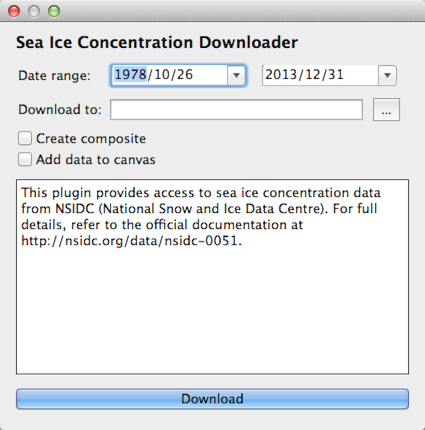
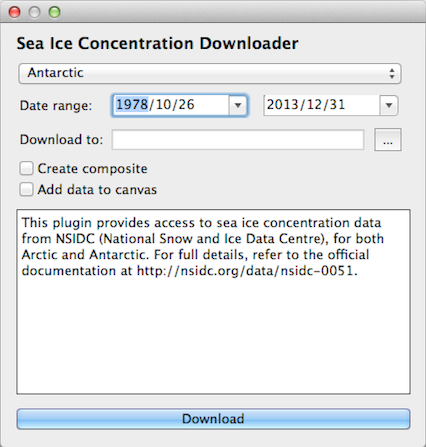
Changed readme and interface image

Changed region(s): [[0.0306, 0.0605, 1.0, 0.9977], [0.0, 0.0, 0.1529, 0.0302]]

diff --git a/README.md b/README.md
@@ -4,7 +4,7 @@ Sea Ice Concentration Downloader v1.0.0
 ##What it does
 This is a QGIS Plugin which allows easy download of sea ice concentration data from [NSIDC](http://nsidc.org/data/seaice_index/) (National Snow and Ice Data Centre). 
 
-It downloads daily sea ice concentration grids within a defined time range together with an optional averaged composite of all downloaded data. The data is saved in GeoTiff format, and projected to Antarctic Polar Stereographic (EPSG: 3031). 
+It downloads daily sea ice concentration grids within a defined time range together with an optional averaged composite of all downloaded data. The data is saved in GeoTiff format, and projected. 
 
 The Plugin is currently working, but has not been subject to wide use. Therefore, there may be problems with it. 
 
@@ -34,7 +34,7 @@ The plugin requires QGIS version 2.0 or higher. It can be installed via the Plug
 1. ![Toolbar button](images/icon_button.png)  Locate this icon on the toolbar and click it to open the plugin.
 ![Plugin interface](images/interface.png)
 
-2. Select a **date range** and **download path**. Select whether you want to create an averaged **composite** and whether you wish to add the composite to the map canvas. 
+2. Select either **Antarctic** or **Arctic**, a **date range** and **download path**. Select whether you want to create an averaged **composite** and whether you wish to add the composite to the map canvas. 
 
 3. Click **Download**
 
